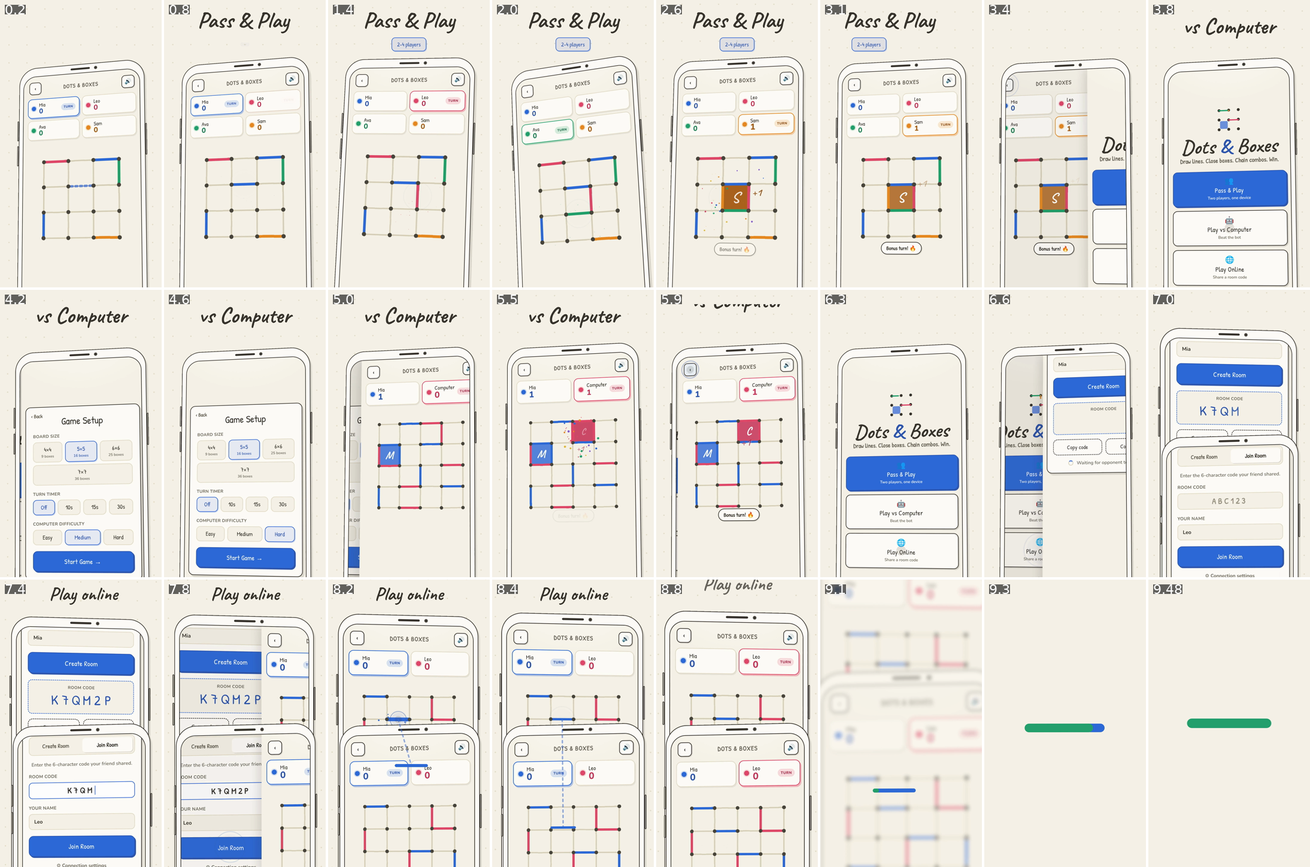
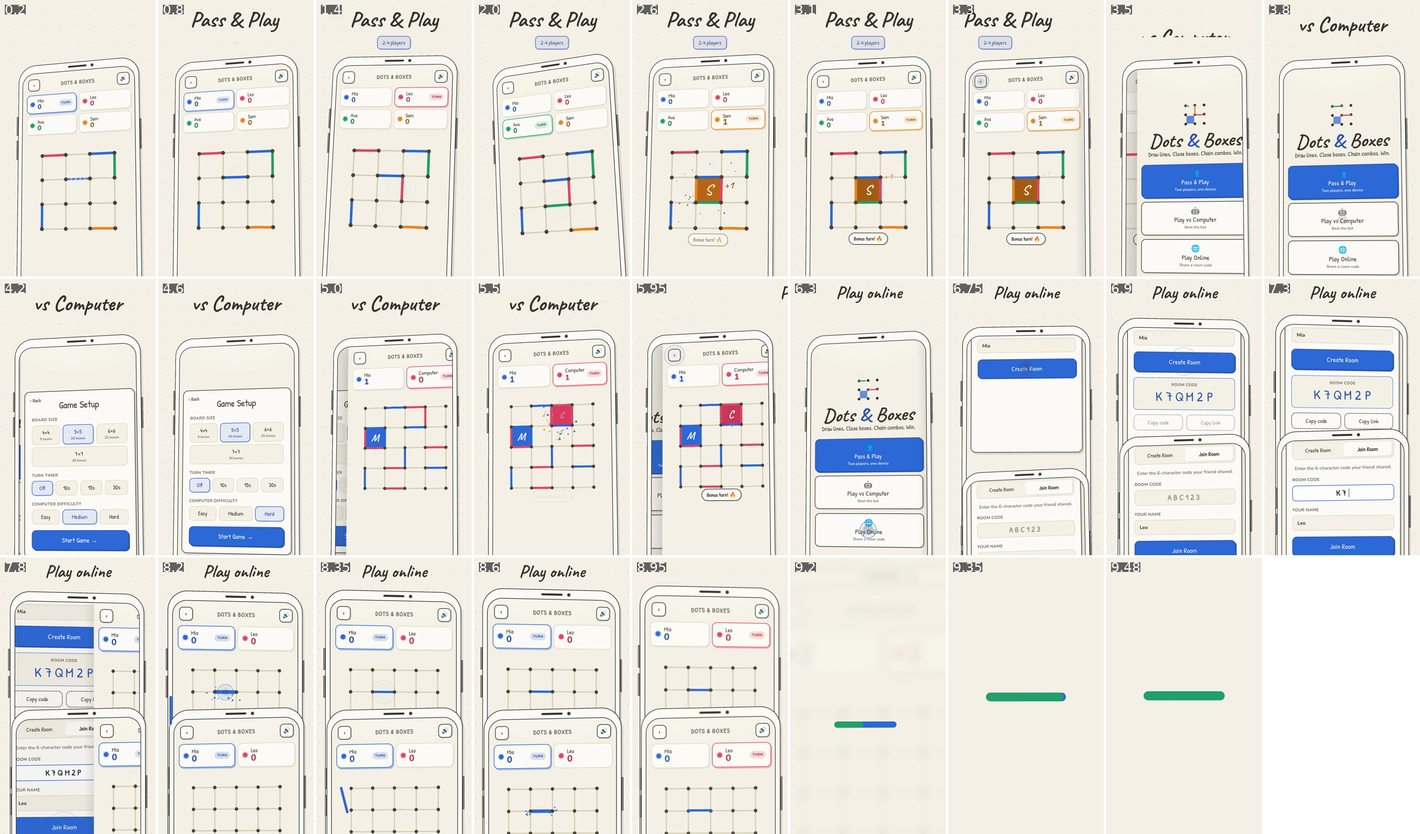
Modes module: online setup causality, headline handoffs, solid fills
Claude-Session: https://claude.ai/code/session_015djpT82mPv6pF3coxQuzAb

diff --git a/promo/scenes/board.js b/promo/scenes/board.js
@@ -10,11 +10,11 @@ import { hand, TILT_DEG, PERSPECTIVE } from '../shared/handoff.js';
 // ---------- easing ----------
 const CSS_OUT = cssBezier(0, 0, 0.58, 1);          // CSS 'ease-out' (the game's float-up)
 const CSS_IO = cssBezier(0.42, 0, 0.58, 1);         // CSS 'ease-in-out' (the game's shake)
-const PULL = cssBezier(0.62, 0, 0.1, 1);            // slow start, fast middle, long soft landing
+const PULL = cssBezier(0.6, 0, 0.24, 1);            // slow start, fast middle, soft landing
 const PUSH = cssBezier(0.5, 0, 0.1, 1);
 const GLIDE = cssBezier(0.45, 0, 0.2, 1);
 const WHIP = cssBezier(0.78, 0, 0.22, 1);
-const LAND = cssBezier(0.33, 0, 0.1, 1);
+const LAND = cssBezier(0.22, 0, 0.1, 1);
 const SINE = (x) => 0.5 - 0.5 * Math.cos(Math.PI * x);
 const inQuart = (x) => x * x * x * x;
 
@@ -33,9 +33,10 @@ function keysE(t, ks) {
 
 // ---------- film times ----------
 const T_STROKE = 0.8, T_HATCH0 = 0.9, T_HATCH1 = 1.13, T_PULL = 1.1;
-const T_SW0 = 2.12, T_SW1 = 2.86;                   // paper → app sweep
+const T_SW0 = 2.04, T_SW1 = 2.8;                   // paper → app sweep
 const T_TILT0 = 9.3, T_END = 10.0;
-const MOVE_T = [null, 4.25, 4.9, 5.75, 7.0, 7.3, 7.6, 7.9];   // moves 1..7 (move 0 is the pen stroke)
+const MOVE_T = [null, 4.25, 4.9, 5.75, 7.12, 7.36, 7.58, 7.77];
+const GROW = 0.12;                                            // chain: tap → stroke grows 120 ms → snap + fill   // moves 1..7 (move 0 is the pen stroke)
 const AUTO_T0 = 8.4, AUTO_DT = 0.075;                         // moves 8..21
 const PREVIEW = { 1: 3.98, 2: 4.62, 3: 5.42 };                 // dashed preview start for the tapped moves
 
@@ -52,28 +53,28 @@ export default {
     const moves = game.moves.map((m, i) => ({ ...m, i, t: i === 0 ? null : i < 8 ? MOVE_T[i] : AUTO_T0 + (i - 8) * AUTO_DT }));
 
     // ---------------- layout per aspect ----------------
-    const FB = [(W / 2 - BB.x) / G0, (H / 2 - BB.y) / G0];      // camera focus (grid) that puts the board on B at scale 1
-    const FC = [(W / 2 - CB.x) / G0, (H / 2 - CB.y) / G0];      // … on C
+    const FB = [(W / 2 - BB.x) / BB.gap, (H / 2 - BB.y) / BB.gap];      // camera focus (grid) that puts the board on B at scale 1
+    const FC = [(W / 2 - CB.x) / CB.gap, (H / 2 - CB.y) / CB.gap];      // … on C
     const L = V ? {
       // [t, [screenGap, focusCol, focusRow], ease]
       cam: [
         [0.0, [400, 1.667, 1.62]],
         [T_PULL, [409, 1.66, 1.61], SINE],
         [2.0, [BB.gap, FB[0], FB[1]], PULL],
-        [4.0, [BB.gap * 1.04, FB[0] + 0.02, FB[1] - 0.04], SINE],
+        [4.0, [BB.gap * 1.08, FB[0] + 0.03, FB[1] - 0.06], SINE],
         [4.45, [330, 1.57, 1.05], PUSH],
         [4.95, [330, 1.55, 1.25], GLIDE],
         [5.2, [334, 1.55, 1.29], SINE],
         [5.65, [420, 1.5, 2.3], GLIDE],
         [6.7, [431, 1.5, 2.29], SINE],
-        [7.05, [380, 3.0, 2.68], WHIP],
+        [7.0, [380, 3.0, 2.68], WHIP],
         [8.4, [368, 3.06, 2.86], SINE],
         [T_END, [CB.gap, FC[0], FC[1]], LAND],
       ],
       w1: { x: 64, y: 96, size: 176 }, w2: { r: 1016, y: 1650, size: 176 },
       head: { cx: 540, y1: 132, size: 150 },
       w3: { r: 1016, y: 176, size: 168 }, w4: { x: 64, y: 176, size: 168 },
-      cardsW: 840, cardsAt: (h) => ({ x: CB.x, y: CB.y + 4 * G0 + 44 }), cardsHud: (h) => ({ x: CB.x, y: H - 70 - h }), cardsFrom: 60,
+      cardsW: 840, cardsW02: 840, cardsS02: (h, c) => ({ x: proj(P(0, 0), c).x, y: proj(P(0, 4), c).y + 42 }), cardsHud: (h) => ({ x: CB.x, y: H - 70 - h }), cardsFrom: 60,
       pill: { c: 1.5, r: 3.0, dx: 0, dy: 86, scale: 2.6 },
       combo: (cam, pr) => ({ x: pr(P(3, 2)).x, y: pr(P(3, 2)).y - 150 }), comboSizes: [104, 124, 146, 168],
       penAngle: 21, penScale: 0.9, float1: 130, runSize: 74,
@@ -82,25 +83,24 @@ export default {
         [0.0, [435, 1.70, 1.333]],
         [T_PULL, [446, 1.69, 1.32], SINE],
         [2.0, [BB.gap, FB[0], FB[1]], PULL],
-        [4.0, [BB.gap * 1.04, FB[0] + 0.05, FB[1] - 0.03], SINE],
+        [4.0, [BB.gap * 1.09, FB[0] + 0.12, FB[1] - 0.02], SINE],
         [4.45, [315, 1.5, 0.62], PUSH],
         [4.95, [305, 1.42, 1.34], GLIDE],
         [5.2, [309, 1.43, 1.37], SINE],
         [5.65, [420, 1.5, 2.5], GLIDE],
         [6.7, [432, 1.52, 2.48], SINE],
-        [7.05, [370, 2.67, 2.93], WHIP],
-        [8.4, [358, 3.08, 2.99], SINE],
+        [7.0, [330, 2.42, 2.64], WHIP],
+        [8.4, [322, 2.52, 2.68], SINE],
         [T_END, [CB.gap, FC[0], FC[1]], LAND],
       ],
       w1: { x: 84, y: 54, size: 180 }, w2: { r: 1836, y: 872, size: 180 },
       head: { x: 118, y1: 404, size: 150 },
       w3: { r: 1836, y: 886, size: 170 }, w4: { x: 84, y: 886, size: 170 },
-      cardsW: 600, cardsAt: (h) => ({ x: CB.x, y: CB.y - 30 - h }), cardsS02: (h) => ({ x: BB.x, y: BB.y - 30 - h }), cardsHud: (h) => ({ x: 60, y: 46 }), cardsFrom: -60,
+      cardsW: 600, cardsW02: 760, cardsS02: (h, c) => ({ x: proj(P(2, 0), c).x - 380, y: proj(P(0, 0), c).y - 24 - h }), cardsHud: (h) => ({ x: 60, y: 46 }), cardsFrom: -60,
       pill: { c: 2.0, r: 3.0, dx: 1, dy: 70, scale: 2.4 },
-      combo: (cam, pr) => ({ x: pr(P(3, 3)).x, y: 132 }), comboSizes: [100, 120, 142, 166],
+      combo: (cam, pr) => ({ x: pr(P(3, 3)).x, y: Math.max(pr(P(3, 2)).y - 130, 175) }), comboSizes: [100, 120, 142, 166],
       penAngle: 12.5, penScale: 1, float1: 130, runSize: 76,
     };
-    if (!L.cardsS02) L.cardsS02 = L.cardsAt;
 
     // ---------------- camera ----------------
     const CAMK = L.cam.map(([t, [g, c, r], e]) => [t, [Math.log(g), c, r], e]);
@@ -115,10 +115,11 @@ export default {
     const root = svg('svg', { width: W, height: H, viewBox: `0 0 ${W} ${H}` }); css(root, { position: 'absolute', left: 0, top: 0 });
     tiltEl.appendChild(root);
     const defs = svg('defs', {}, root);
-    const ghostG = svg('g', {}, root);
     const camG = svg('g', {}, root);
-    const world = svg('g', { id: 'bd-world' }, camG);
-    const ghosts = [0, 1, 2].map(() => svg('use', { href: '#bd-world', opacity: 0 }, ghostG));
+    const blurG = svg('g', {}, camG);
+    const world = svg('g', { id: 'bd-world' }, blurG);
+    const mblurF = svg('filter', { id: 'bd-mblur', x: '-15%', y: '-15%', width: '130%', height: '130%' }, defs);
+    const mblur = svg('feGaussianBlur', { stdDeviation: '0 0' }, mblurF);
 
     const vignette = div('', layer); css(vignette, { position: 'absolute', inset: 0, background: 'radial-gradient(ellipse 75% 70% at 46% 46%, rgba(120,92,52,0) 55%, rgba(120,92,52,0.16) 100%)' });
     const dim = div('', layer); css(dim, { position: 'absolute', inset: 0 });
@@ -221,7 +222,7 @@ export default {
     const edgeInfo = new Map();   // edge → {by, t0, preview}
     for (const [id, by] of E0) edgeInfo.set(id, { by, t0: sweepT(bd.edgeMid(id).x) });
     edgeInfo.set('v_1_2', { by: 'p1', t0: sweepT(bd.edgeMid('v_1_2').x) });
-    for (const m of moves) if (m.i > 0) edgeInfo.set(m.edge, { by: m.by, t0: m.t, preview: PREVIEW[m.i] });
+    for (const m of moves) if (m.i > 0) edgeInfo.set(m.edge, { by: m.by, t0: m.t, preview: PREVIEW[m.i], grow: m.i >= 4 && m.i <= 7 ? m.t - GROW : undefined });
     const boxInfo = new Map();
     const tB11 = sweepT(bd.boxCenter('b_1_1').x) - 0.04;
     boxInfo.set('b_1_1', { o: 'p1', t0: tB11 });
@@ -247,17 +248,19 @@ export default {
 
     // ---------------- words ----------------
     const HALO = `0 0 0.06em ${C.paper}, 0 0 0.14em ${C.paper}, 0 0 0.28em ${C.paper}, 0 0 0.5em rgba(247,242,231,0.9)`;
-    const mkWord = (parent, html, size, halo = true) => {
+    const mkWord = (parent, html, size, halo = true, plate = null) => {
       const e = div('cv', parent, html); css(e, { position: 'absolute', left: '0px', top: '0px', fontSize: size + 'px', willChange: 'transform' });
       if (halo) e.style.textShadow = HALO;
+      if (plate) css(e, plate);
       const r = e.getBoundingClientRect(); return { e, w: r.width, h: r.height };
     };
+    const PLATE = { background: 'rgba(247,242,231,0.92)', borderRadius: '0.22em', padding: '0.02em 0.16em 0.06em', boxShadow: '0 0 0.22em 0.2em rgba(247,242,231,0.92)' };
     const ACC = (s) => `<span style="color:${C.accentInk}">${s}</span>`;
     const w1 = mkWord(wordsL, 'Remember', L.w1.size), w2 = mkWord(wordsL, 'this game?', L.w2.size);
     const hd1 = mkWord(wordsL, 'Now in your', L.head.size, false), hd2 = mkWord(wordsL, ACC('browser.'), L.head.size, false);
     const hl = [hd1, hd2].map((w) => { const clip = div('', wordsL); css(clip, { position: 'absolute', left: 0, top: 0, overflow: 'hidden', width: w.w + 40 + 'px', height: w.h + 30 + 'px' });
       clip.appendChild(w.e); css(w.e, { left: '20px', top: '6px' }); return { ...w, clip }; });
-    const w3 = mkWord(wordsL, 'Draw ' + ACC('lines.'), L.w3.size), w4 = mkWord(wordsL, 'Close ' + ACC('boxes.'), L.w4.size);
+    const w3 = mkWord(wordsL, 'Draw ' + ACC('lines.'), L.w3.size, false, PLATE), w4 = mkWord(wordsL, 'Close ' + ACC('boxes.'), L.w4.size, false, PLATE);
 
     // ---------------- player cards ----------------
     const cardsWrap = div('', hud); css(cardsWrap, { position: 'absolute', left: 0, top: 0, width: '352px', display: 'flex', gap: '12px', transformOrigin: '0 0' });
@@ -265,23 +268,35 @@ export default {
     const leo = playerCard(cardsWrap, { name: game.players.p2.name, pid: 'p2', score: 0, active: false });
     for (const c of [mia, leo]) { c.el.style.flex = '1 1 0'; css(c.scoreEl, { display: 'inline-block', transformOrigin: '20% 60%' }); }
     const cardsNat = { w: 352, h: cardsWrap.getBoundingClientRect().height };
-    const cardsS = L.cardsW / cardsNat.w, cardsH = cardsNat.h * cardsS;
+    const cardsS = L.cardsW / cardsNat.w, cardsH = cardsNat.h * cardsS, cardsS02 = L.cardsW02 / cardsNat.w;
 
     // ---------------- status pill, floats, finger ----------------
     const pill = div('status-pill', hud, 'Bonus turn! 🔥'); css(pill, { position: 'absolute', left: 0, top: 0, transformOrigin: '50% 50%' });
     const pillR = pill.getBoundingClientRect();
-    const mkFloat = (text, size, color) => { const e = div('float-text', hud, text); css(e, { position: 'absolute', left: 0, top: 0, fontSize: size + 'px', color, textShadow: '0 0.04em 0.07em rgba(255,255,255,0.9), 0 0 0.2em rgba(255,255,255,0.55)', visibility: 'hidden' }); return e; };
+    const HALO2 = `0 0 0.03em ${C.paper}, 0 0 0.07em ${C.paper}, 0 0 0.12em ${C.paper}, 0 0 0.2em ${C.paper}, 0 0 0.32em rgba(247,242,231,0.95), 0 0 0.5em rgba(247,242,231,0.8)`;
+    const mkFloat = (text, size, color, style = 'plate') => { const e = div('float-text', hud, text);
+      css(e, { position: 'absolute', left: 0, top: 0, fontSize: size + 'px', color, textShadow: 'none', visibility: 'hidden' });
+      if (style === 'plate') css(e, PLATE); else if (style === 'halo') e.style.textShadow = HALO2; else e.style.textShadow = '0 0.03em 0.08em rgba(20,40,90,0.35)';
+      return e; };
     const floats = [];
-    // s04 "+1"
-    floats.push({ el: mkFloat(moves[3].plusText, L.float1, C.accentInk), t0: MOVE_T[3] + 0.04, life: 1.3, at: (t, c) => { const p = proj(P(2.3, 2.45), c); return { x: p.x, y: p.y, sc: c.s * G0 / 420 }; } });
+    // "+1" on every capture (main.js:584), solid accent-ink on a paper plate
+    [3, 4, 5, 6, 7].forEach((mi) => {
+      const bx = moves[mi].completed[0];
+      // s04: accent-ink on paper beside the box; chain: white on the solid blue fill (4.98:1), in the box's upper-right corner
+      const anchor = mi === 3 ? () => P(2.3, 2.45) : () => { const q = bd.boxCenter(bx); return { x: q.x + 0.29 * G0, y: q.y - 0.29 * G0 }; };
+      floats.push({ el: mi === 3 ? mkFloat(moves[mi].plusText, L.float1, C.accentInk) : mkFloat(moves[mi].plusText, L.float1 * 0.72, '#fff', 'white'), t0: moves[mi].t + (mi === 3 ? 0.04 : 0.1), life: mi === 3 ? 1.3 : 0.9, rise: mi === 3 ? 1 : 0.12,
+        at: (t, c) => { const p = proj(anchor(), c); return { x: p.x, y: p.y, sc: c.s * G0 / 420 }; } });
+    });
     // s05 chain combos: grow, shake, each replaced by the next in the same place
     [4, 5, 6, 7].forEach((mi, j) => {
       const until = mi < 7 ? MOVE_T[mi + 1] : 8.55;
-      floats.push({ el: mkFloat(moves[mi].comboText, L.comboSizes[j], C.accentInk), t0: moves[mi].t, life: 1.3, until, shake: 14, at: (t, c) => ({ ...L.combo(c, (p) => proj(p, c)), sc: 1 }) });
+      floats.push({ el: mkFloat(moves[mi].comboText, L.comboSizes[j], C.accentInk, 'halo'), t0: moves[mi].t, life: 0.8, until, shake: 14, rise: 0.2, at: (t, c) => ({ ...L.combo(c, (p) => proj(p, c)), sc: 1 }) });
     });
     const finger = div('', hud); css(finger, { position: 'absolute', left: 0, top: 0, width: '96px', height: '96px', borderRadius: '50%', background: 'rgba(56,53,47,0.16)', border: '4px solid rgba(255,255,255,0.95)', boxShadow: '0 10px 22px rgba(56,53,47,0.22), inset 0 0 0 2px rgba(56,53,47,0.08)' });
-    const ripple = div('', hud); css(ripple, { position: 'absolute', left: 0, top: 0, width: '100px', height: '100px', borderRadius: '50%', border: `5px solid ${C.accent}` });
-    const TAPS = [{ t: MOVE_T[1], edge: 'h_0_1' }, { t: MOVE_T[3], edge: 'v_2_2' }];
+    const ripples = [0, 1, 2].map(() => { const r = div('', hud); css(r, { position: 'absolute', left: 0, top: 0, width: '100px', height: '100px', borderRadius: '50%', border: `5px solid ${C.accent}` }); return r; });
+    // tap groups: one fingertip per group travels tap → tap
+    const TAPG = [[{ t: MOVE_T[1], edge: 'h_0_1' }], [{ t: MOVE_T[3], edge: 'v_2_2' }], [4, 5, 6, 7].map((i) => ({ t: MOVE_T[i] - GROW, edge: moves[i].edge }))];
+    const ALLTAPS = TAPG.flat();
 
     // ---------------- the pen (screen space) ----------------
     const pdefs = svg('defs', {}, penSvg);
@@ -313,8 +328,9 @@ export default {
     const floatState = (t, it) => {
       const a = t - it.t0; if (a < 0 || a > it.life || (it.until && t >= it.until)) return null;
       const u = a / it.life; let ty, sc, op;
-      if (u < 0.25) { const e = CSS_OUT(u / 0.25); ty = lerp(-50, -70, e); sc = lerp(0.4, 1.15, e); op = e; }
-      else { const e = CSS_OUT((u - 0.25) / 0.75); ty = lerp(-70, -180, e); sc = lerp(1.15, 1, e); op = 1 - e; }
+      if (u < 0.25) { const e = CSS_OUT(u / 0.25); ty = lerp(-50, -70, e); sc = lerp(0.4, 1.15, e); op = clamp(e * 1.6); }
+      else { const e = CSS_OUT((u - 0.25) / 0.75); ty = lerp(-70, -180, e); sc = lerp(1.15, 1, e); op = 1 - smooth(seg(u, 0.55, 1)); }
+      ty = -50 + (ty + 50) * (it.rise ?? 1);
       let dy = 0;
       if (it.until) { const x = seg(t, it.until - 0.09, it.until); op *= 1 - x; dy = -40 * x; sc *= 1 + 0.12 * x; }
       let dx = 0;
@@ -336,12 +352,15 @@ export default {
       if (t > T_TILT0) { const u = seg(t, T_TILT0, T_END); const e = 0.68 * smooth(u) + 0.32 * u * u; tiltEl.style.transform = `rotateX(${(TILT_DEG * e).toFixed(4)}deg)`; }
       else tiltEl.style.transform = 'none';
 
-      // ghosts (camera whip only)
-      const gw = t > 6.66 && t < 7.12;
-      for (let i = 0; i < 3; i++) {
-        if (!gw) { ghosts[i].setAttribute('opacity', 0); continue; }
-        const cp = cam(t - (i + 1) * 0.009), sp = Math.hypot(cp.fx - c.fx, cp.fy - c.fy) * c.s;
-        ghosts[i].setAttribute('transform', camTf(cp)); ghosts[i].setAttribute('opacity', [0.2, 0.12, 0.07][i] * clamp((sp - 4) / 24));
+      // directional motion blur on the whip (blur ∝ screen velocity, in world units)
+      {
+        let on = false;
+        if (t > 6.68 && t < 7.02) {
+          const cp = cam(t - 1 / 60), vx = (c.fx - cp.fx) * c.s, vy = (c.fy - cp.fy) * c.s;
+          const bx = 0.55 * Math.abs(vx) / c.s, by = 0.55 * Math.abs(vy) / c.s;
+          if (bx + by > 0.6 / c.s) { on = true; mblur.setAttribute('stdDeviation', `${bx.toFixed(2)} ${by.toFixed(2)}`); }
+        }
+        if (on) blurG.setAttribute('filter', 'url(#bd-mblur)'); else blurG.removeAttribute('filter');
       }
 
       // paper grain + vignette
@@ -378,20 +397,21 @@ export default {
           const inf = edgeInfo.get(id);
           if (!inf) { bd.clearEdge(id); continue; }
           if (t >= inf.t0) bd.setEdge(id, { p: 1, color: LINE[inf.by], w: Board.snapW(t, inf.t0) });
+          else if (inf.grow !== undefined && t >= inf.grow) bd.setEdge(id, { p: outCubic(seg(t, inf.grow, inf.t0)), color: LINE[inf.by], w: 0.75 });
           else if (inf.preview !== undefined && t >= inf.preview) bd.setEdge(id, { p: 1, color: C.accent, w: 6 / 6.5, dash: true, dashOffset: -20 * t, opacity: 0.75 * smooth(seg(t, inf.preview, inf.preview + 0.12)) });
           else if (inf.preview === undefined && inf.t0 <= T_SW1 + 0.3) bd.setEdge(id, { p: 1, color: LINE[inf.by], w: Board.snapW(t, inf.t0) });
           else bd.clearEdge(id);
         }
         for (const [id] of bd.boxes) {
           const b = boxInfo.get(id);
-          if (b && t >= b.t0) bd.setBox(id, { p: Board.fillP(t, b.t0), color: FILL[b.o], opacity: 0.82, mark: marks[b.o], markP: Board.markP(t, b.t0) });
+          if (b && t >= b.t0) bd.setBox(id, { p: Board.fillP(t, b.t0), color: FILL[b.o], opacity: 1, mark: marks[b.o], markP: Board.markP(t, b.t0) });
           else bd.setBox(id, { p: 0, mark: '' });
         }
       }
       sparks.draw(t, bursts);
 
       // ---- focus dim (neighbours soften while a macro is on one spot) ----
-      const dA = 0.42 * smooth(seg(t, 4.3, 4.6)) * (1 - smooth(seg(t, 8.35, 8.8)));
+      const dA = 0; // focus dim removed: it lightened the solid fills (white-mark contrast)
       show(dim, dA > 0.001);
       if (dA > 0.001) {
         const fk = keysE(t, [[4.3, [1.5, 0.0, 1.3]], [4.6, [1.5, 0.05, 1.3]], [5.05, [1.2, 1.35, 1.9], GLIDE], [5.3, [1.25, 1.4, 1.9]], [5.7, [1.5, 2.5, 1.05], GLIDE], [6.7, [1.5, 2.5, 1.1]], [7.05, [3.0, 3.0, 1.7], WHIP], [8.4, [3.0, 3.0, 1.8]]]);
@@ -415,7 +435,7 @@ export default {
         if (on) hl.forEach((h, i) => {
           const a = outQuint(seg(t, 2.16 + i * 0.09, 2.72 + i * 0.09)), o = inCubic(seg(t, 3.5 + i * 0.05, 3.8 + i * 0.05));
           const baseX = V ? L.head.cx - h.w / 2 - 20 : L.head.x - 20, baseY = L.head.y1 + i * h.h * 0.98 - 6;
-          h.clip.style.transform = `translate(${baseX + 8 * (t - 2.2) - o * (baseX + h.w + 120)}px,${baseY}px)`;
+          h.clip.style.transform = `translate(${baseX + 24 * (t - 2.2) - o * (baseX + h.w + 120)}px,${baseY}px)`;
           h.e.style.transform = `translateY(${(1 - a) * (h.h + 30)}px)`;
         });
       }
@@ -431,14 +451,13 @@ export default {
 
       // ---- player cards ----
       {
-        const on = t > 2.2 && t < 9.72; show(cardsWrap, on);
+        const on = t > 2.2 && t < 9.62; show(cardsWrap, on);
         if (on) {
-          const pS = L.cardsS02(cardsH), pH = L.cardsHud(cardsH), pE = L.cardsAt(cardsH);
-          const toHud = GLIDE(seg(t, 4.0, 4.5)), back = smooth(seg(t, 9.0, 9.45));
-          const tl = proj(P(0, 0), c), att = V ? { x: tl.x, y: proj(P(0, 4), c).y + 44 } : { x: tl.x, y: tl.y - 30 - cardsH };
-          const x = lerp(lerp(pS.x, pH.x, toHud), att.x, back), y = lerp(lerp(pS.y, pH.y, toHud), att.y, back);
-          const fade = 1 - smooth(seg(t, 9.4, 9.7));
-          css(cardsWrap, { transform: `translate(${x}px,${y}px) scale(${cardsS})`, opacity: fade });
+          const toHud = GLIDE(seg(t, 4.0, 4.5)), cs = lerp(cardsS02, cardsS, toHud) * (V ? 1 : lerp(1, 0.78, GLIDE(seg(t, 8.4, 8.9))));
+          const pS = L.cardsS02(cardsNat.h * cardsS02, cam(Math.min(t, 4.0))), pH = L.cardsHud(cardsH);
+          const x = lerp(pS.x, pH.x, toHud), y = lerp(pS.y, pH.y, toHud);
+          const fade = 1 - smooth(seg(t, 9.3, 9.6));
+          css(cardsWrap, { transform: `translate(${x}px,${y}px) scale(${cs})`, opacity: fade });
           [mia, leo].forEach((cd, i) => { const a = outCubic(seg(t, 2.24 + i * 0.08, 2.7 + i * 0.08)); css(cd.el, { transform: `translateY(${(1 - a) * L.cardsFrom}px)`, opacity: clamp(a * 1.6) }); });
           const st = stateAt(t);
           const sc = st ? st.scores : { p1: 0, p2: 0 };
@@ -466,23 +485,29 @@ export default {
         const p = it.at(t, c);
         css(it.el, { transform: `translate(${p.x + s.dx}px,${p.y + s.dy}px) translate(-50%,${s.ty}%) scale(${s.sc * p.sc})`, opacity: s.op * (1 - smooth(seg(t, 9.55, 9.7))) });
       }
-      // ---- finger taps ----
+      // ---- finger taps (the fingertip stays on the contact point while the ripple expands) ----
       {
-        let fOn = false, rOn = false;
-        for (const tp of TAPS) {
-          const u0 = tp.t - 0.3, u1 = tp.t + 0.42;
-          if (t >= u0 && t <= u1) {
-            fOn = true; const m = proj(bd.edgeMid(tp.edge), c);
-            const inn = outCubic(seg(t, u0, tp.t - 0.02)), out = inCubic(seg(t, tp.t + 0.1, u1));
-            const press = 1 - 0.14 * Math.sin(Math.PI * seg(t, tp.t - 0.04, tp.t + 0.1));
-            const off = (1 - inn) * 1 + out * 1.1;
-            css(finger, { transform: `translate(${m.x - 48 + off * 240}px,${m.y - 48 + off * 280}px) scale(${press * lerp(1.15, 1, inn)})`, opacity: clamp(inn * 2) * (1 - out) });
-          }
-          const ru = seg(t, tp.t, tp.t + 0.5);
-          if (ru > 0 && ru < 1) { rOn = true; const m = proj(bd.edgeMid(tp.edge), c); const sc = lerp(0.6, 2.6, outCubic(ru));
-            css(ripple, { transform: `translate(${m.x - 50}px,${m.y - 50}px) scale(${sc})`, opacity: 0.8 * (1 - ru) }); }
+        let fOn = false;
+        for (const grp of TAPG) {
+          const u0 = grp[0].t - 0.3, u1 = grp.at(-1).t + 0.5;
+          if (t < u0 || t > u1) continue;
+          fOn = true;
+          let m, off = 0, press = 1, inn = 1, out = 0;
+          const pts = grp.map((tp) => proj(bd.edgeMid(tp.edge), c));
+          if (t <= grp[0].t) { inn = outCubic(seg(t, u0, grp[0].t - 0.02)); off = 1 - inn; m = pts[0]; }
+          else if (t >= grp.at(-1).t) { out = inCubic(seg(t, grp.at(-1).t + 0.2, u1)); off = out * 1.1; m = pts.at(-1); }
+          else { let i = 0; while (i < grp.length - 1 && t >= grp[i + 1].t) i++; const k = GLIDE(seg(t, grp[i].t + 0.03, grp[i + 1].t - 0.02)); m = { x: lerp(pts[i].x, pts[i + 1].x, k), y: lerp(pts[i].y, pts[i + 1].y, k) }; }
+          for (const tp of grp) press = Math.min(press, 1 - 0.16 * Math.sin(Math.PI * seg(t, tp.t - 0.04, tp.t + 0.08)));
+          css(finger, { transform: `translate(${m.x - 48 + off * 240}px,${m.y - 48 + off * 280}px) scale(${press * lerp(1.15, 1, inn)})`, opacity: clamp(inn * 2) * (1 - out) });
         }
-        show(finger, fOn); show(ripple, rOn);
+        show(finger, fOn);
+        let ri = 0;
+        for (const tp of ALLTAPS) {
+          const ru = seg(t, tp.t, tp.t + 0.5);
+          if (ru > 0 && ru < 1 && ri < ripples.length) { const m = proj(bd.edgeMid(tp.edge), c); const sc = lerp(0.6, 2.6, outCubic(ru));
+            css(ripples[ri], { transform: `translate(${m.x - 50}px,${m.y - 50}px) scale(${sc})`, opacity: 0.8 * (1 - ru) }); show(ripples[ri], true); ri++; }
+        }
+        for (; ri < ripples.length; ri++) show(ripples[ri], false);
       }
 
       // ---- pen ----

diff --git a/promo/scenes/score3d-layout.js b/promo/scenes/score3d-layout.js
@@ -1,5 +1,6 @@
 // score3d-layout.js — per-aspect layout, camera keys and a time spline for score3d.
 import { C, FILL } from '../shared/lib.js';
+import { TILT_DEG, PERSPECTIVE } from '../shared/handoff.js';
 
 /** Catmull-Rom (non-uniform time) through keys [[t, v], ...]; start slope m0 (units/s), flat at the end. Pure function of t. */
 export function spline(t, ks, slope0 = 0) {
@@ -16,6 +17,7 @@ export function spline(t, ks, slope0 = 0) {
 
 // camera keys: [time, value]; the final keys continue gently past the dive start so the spline never stops.
 const keys = (arr) => arr.map((v, i) => [TK[i], v]);
+const EL0 = 90 - TILT_DEG; // camera elevation that reproduces the CSS tilt at the cut
 const TK = [10.0, 10.8, 11.6, 12.3, 13.0, 13.5, 14.0];
 
 export function cfg(V, k) {
@@ -37,12 +39,12 @@ export function cfg(V, k) {
     return { ...base, ui: 1.3, chipUi: 1.45, chipName: 48, chipScore: 58,
       tower: { p2: { x: -tx, z: 0.1 * G }, p1: { x: tx, z: 0.1 * G } },
       cam: {
-        el: keys([68, 57, 50, 45, 40, 38, 37]),
+        el: keys([EL0, 50, 47, 44, 40, 38, 37]),
         az: keys([0, 7, 13, 18, 22, 25, 26]),
-        dist: keys([1800, 1330, 1400, 1490, 1550, 1500, 1480]),
-        tx: keys([0, 70, 20, 30, 115, 145, 155]),
-        ty: keys([0, 50, 100, 150, 175, 185, 190]),
-        tz: keys([0, 10, 20, 30, 45, 50, 52]),
+        dist: keys([PERSPECTIVE, ...[1330, 1400, 1490, 1550, 1500, 1480].map((v) => v * k)]),
+        tx: keys([0, 70, 20, 30, 115, 145, 155].map((v) => v * k)),
+        ty: keys([0, 50, 100, 150, 175, 185, 190].map((v) => v * k)),
+        tz: keys([0, 10, 20, 30, 45, 50, 52].map((v) => v * k)),
       },
       winSize: 120, winFrom: -160,
       // to the left of Mia's chip, vertically centred on it
@@ -54,9 +56,9 @@ export function cfg(V, k) {
   return { ...base, cube: vc, cubeR: 0.17 * vc, arc: 0.42 * vc + 20 * k, chipLift: 0.22 * vc, ui: 1.25, chipUi: 1.55, chipName: 52, chipScore: 62,
     tower: { p2: { x: -1.05 * G, z: tz }, p1: { x: 1.05 * G, z: tz } },
     cam: {
-      el: keys([68, 58, 52, 46, 41, 39, 38]),
+      el: keys([EL0, 51, 48, 45, 41, 39, 38]),
       az: keys([0, 4, 7, 9, 11, 12, 12]),
-      dist: keys([1800, 2000, 2100, 2120, 2060, 2020, 2000]),
+      dist: keys([PERSPECTIVE, 2000, 2100, 2120, 2060, 2020, 2000]),
       tx: keys([0, -20, -40, -40, -30, -30, -30]),
       ty: keys([0, 20, 40, 70, 95, 100, 100]),
       tz: keys([0, 150, 280, 380, 430, 440, 442]),

diff --git a/promo/scenes/modes.js b/promo/scenes/modes.js
@@ -323,7 +323,8 @@ export default {
         const bursts = [];
         cfg.order.forEach((id, i) => { edgeDraw(B4, id, t, TT.snaps[i], LINE[pids[i]], { preview: i === 0 ? 14.9 : null }); bursts.push(...sparkBursts(B4, id, TT.snaps[i], LINE[pids[i]], 31 + i * 5)); });
         const cap = TT.snaps[3];
-        B4.setBox(cfg.box, { p: t >= cap ? Board.fillP(t, cap) : 0, color: FILL.p4, opacity: 0.82 + 0.18 * bump(t, cap + 0.05, 0.6), mark: 'S', markP: Board.markP(t, cap) });
+        B4.setBox(cfg.box, { p: t >= cap ? Board.fillP(t, cap) : 0, color: FILL.p4, opacity: 1, mark: 'S', markP: Board.markP(t, cap) });
+        B4.boxes.get(cfg.box).fill.style.filter = `brightness(${1 + 0.12 * bump(t, cap + 0.05, 0.4)})`;
         bursts.push(...confetti(B4, cfg.box, cap + 0.02, 77));
         g4.sparks.draw(t, bursts);
         cardStates(g4.cards, TT.turns, t, [['p4', cap + 0.02, 0, 1]]);
@@ -350,9 +351,10 @@ export default {
       if (t >= 19.7 && t < 21.3) {
         const Bai = ai.board;
         aiPre.forEach(([id, pid]) => Bai.setEdge(id, { p: 1, color: LINE[pid] }));
-        Bai.setBox('b_1_0', { p: 1, color: FILL.p1, mark: 'M', markP: 1 });
+        Bai.setBox('b_1_0', { p: 1, color: FILL.p1, opacity: 1, mark: 'M', markP: 1 });
         edgeDraw(Bai, aiMove, t, TT.aiSnap, LINE.p2);
-        Bai.setBox(aiBox, { p: t >= TT.aiSnap ? Board.fillP(t, TT.aiSnap) : 0, color: FILL.p2, opacity: 0.82 + 0.18 * bump(t, TT.aiSnap + 0.05, 0.6), mark: 'C', markP: Board.markP(t, TT.aiSnap) });
+        Bai.setBox(aiBox, { p: t >= TT.aiSnap ? Board.fillP(t, TT.aiSnap) : 0, color: FILL.p2, opacity: 1, mark: 'C', markP: Board.markP(t, TT.aiSnap) });
+        Bai.boxes.get(aiBox).fill.style.filter = `brightness(${1 + 0.12 * bump(t, TT.aiSnap + 0.05, 0.4)})`;
         ai.sparks.draw(t, [...sparkBursts(Bai, aiMove, TT.aiSnap, LINE.p2, 91), ...confetti(Bai, aiBox, TT.aiSnap + 0.02, 101)]);
         cardStates(ai.cards, [[0, 'p2']], t, [['p2', TT.aiSnap + 0.02, 0, 1]]);
         ai.cards.p1.scoreEl.textContent = 1;

diff --git a/promo/scenes/score3d-board.js b/promo/scenes/score3d-board.js
@@ -20,7 +20,7 @@ export function finalState(game) {
 export function drawFinalBoard(parent, st, c, { id = 'score3d-board', fills = true } = {}) {
   const b = new Board(parent, { rows: 5, cols: 5, gap: c.gap, x: c.x, y: c.y, id });
   for (const [e, by] of st.edges) b.setEdge(e, { p: 1, color: LINE[by], w: 1 });
-  if (fills) for (const [bx, o] of st.owner) b.setBox(bx, { p: 1, color: FILL[o], opacity: 0.82, mark: st.marks[o], markP: 1 });
+  if (fills) for (const [bx, o] of st.owner) b.setBox(bx, { p: 1, color: FILL[o], mark: st.marks[o], markP: 1 });
   return b;
 }
 
